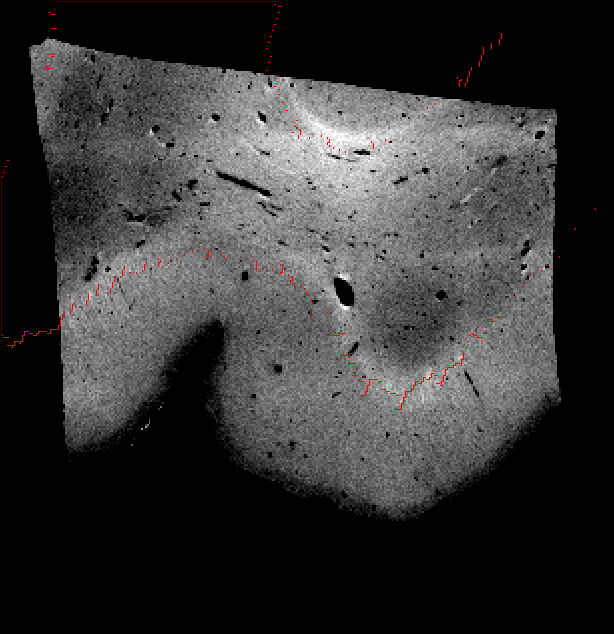
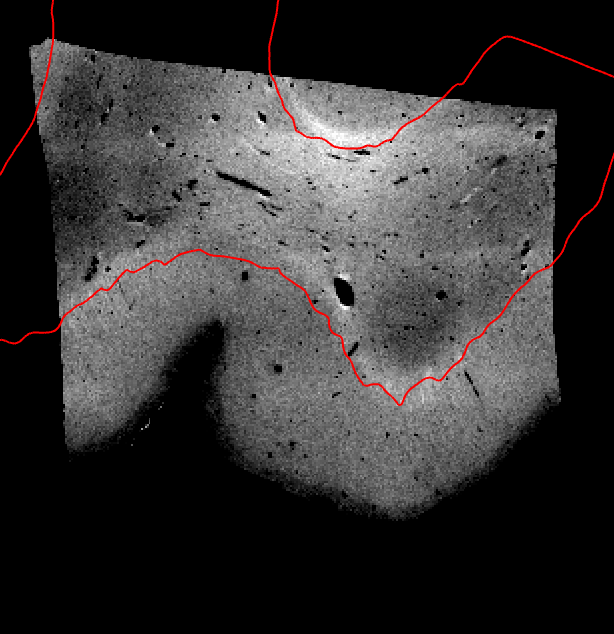
I46 figures: en-face line as the boundary surface, tools on OCT plane 300, en-face leads the README
The white-matter line in the OCT planes is now drawn the way the MRI-grid panels draw it, as the boundary surface cut by the
plane, so it reads at the size the README shows it. OCT plane 300 also shows the line through each standard tool. The README
shows the I46 crop in the OCT's own planes, with the MRI-grid panels kept in bench/i46.

diff --git a/bench/i46/figures.py b/bench/i46/figures.py
@@ -15,8 +15,11 @@ strip/       every C3 crop of the 10 deg FLASH on the axial plane: the MRI with 
 enface/      the crop of main/ seen in the OCT's own imaging planes, as the authors show the OCT: three OCT planes
              (ENFACE_PLANES, one near the top of three sections) at 48 um (4 x 4 box average of the masked OCT), and on each
              the MRI crop resampled through the reference and through octreg (<crop>_p<plane>_mri_<tag>.png), the OCT alone
-             (<crop>_p<plane>_oct.png) and the OCT with the white-matter label of the authors resampled through the
-             reference and through octreg, drawn by freeview as a red outline (<crop>_p<plane>_oct_line_<tag>.png)
+             (<crop>_p<plane>_oct.png) and the OCT with the line of main/ placed through the reference and through octreg
+             (<crop>_p<plane>_oct_line_<tag>.png): the white-matter label resampled to a 0.15 mm grid in the OCT frame
+             around the plane and made a surface the same way. On the middle plane also the line through each standard
+             tool of main/ (<crop>_p300_oct_line_<tool>.png), with no line where the tool places no white matter within
+             four label voxels of the plane (listed as no_line in figures.json)
 The planes pass through the MRI voxel centre nearest the centre of the OCT tissue placed by the reference. The OCT is
 box-averaged to the MRI voxel size and resampled by octreg's own resampler, and black means no OCT. The 2-pixel red line is
 the white-matter boundary of the authors' manual MRI layer labels, made a surface by FreeSurfer's mri_mc and mris_smooth -n 3
@@ -120,9 +123,9 @@ def panels(crop, transforms, boundary, centre_world, out_dir, prefix, work, plan
     return sorted(expect)
 
 
-def enface(crop, transforms, wm, out_dir, prefix, work):
-    """enface/ (module docstring): transforms {tag: 4 x 4 OCT world -> MRI world}, wm the white-matter label on the crop grid.
-    -> the panel files"""
+def enface(crop, transforms, wm, out_dir, prefix, work, planes=ENFACE_PLANES, mri=True):
+    """enface/ (module docstring): transforms {tag: 4 x 4 OCT world -> MRI world}, wm the white-matter label on the crop grid,
+    mri whether to make the MRI panels too. -> the panel files"""
     import nibabel as nib
     out_dir.mkdir(parents=True, exist_ok=True)
     work.mkdir(parents=True, exist_ok=True)
@@ -130,10 +133,10 @@ def enface(crop, transforms, wm, out_dir, prefix, work):
     marr = np.asarray(m.dataobj, np.float32)
     o = nib.load(str(OCT))
     gm, k = freeview_window(crop), ENFACE_POOL
-    lut = work / "wm.lut"
-    lut.write_text("0 Unknown 0 0 0 0\n1 WhiteMatter 255 0 0 0\n", encoding="utf-8", newline="\n")
-    cmd, expect = [], {}
-    for plane in ENFACE_PLANES:
+    s = float(min(m.header.get_zooms()[:3]))                       # the label grid: the MRI voxel size, axes of the OCT
+    D = o.affine[:3, :3] / np.linalg.norm(o.affine[:3, :3], axis=0)
+    cmd, expect, surfs = [], {}, []
+    for plane in planes:
         a = np.asarray(o.dataobj[:, :, plane], np.float32)
         nx, ny = a.shape[0] // k, a.shape[1] // k
         a = a[:nx * k, :ny * k].reshape(nx, k, ny, k).mean((1, 3))[:, :, None]
@@ -151,17 +154,27 @@ def enface(crop, transforms, wm, out_dir, prefix, work):
         size = (wh[0] * 2, wh[1] * 2)
         cmd += ["-v {}:grayscale={!r},{!r}".format(host_path(f_oct), *go), *lines, ss(f"{prefix}_p{plane}_oct.png")]
         expect[out_dir / f"{prefix}_p{plane}_oct.png"] = size
+        n = (int(np.ceil((nx * k * float(o.header.get_zooms()[0]) + 4) / s)),    # 2 mm beyond the plane on each side
+             int(np.ceil((ny * k * float(o.header.get_zooms()[1]) + 4) / s)), 9)  # and 4 voxels above and below it
+        A3 = np.eye(4)
+        A3[:3, :3] = D * s
+        A3[:3, 3] = (A @ np.r_[(nx - 1) / 2, (ny - 1) / 2, 0, 1])[:3] - A3[:3, :3] @ ((np.array(n) - 1) / 2)
         for tag, T in transforms.items():
             f_wm = work / f"wm_{tag}_p{plane}.nii.gz"
             f_mri = work / f"mri_{tag}_p{plane}.nii.gz"
-            io.save_nifti(G.resample_to(wm.astype(np.uint8), m.affine, a.shape, A, np.asarray(T, float), order=0).astype(np.uint8),
-                          A, f_wm)
+            lab = G.resample_to(wm.astype(np.uint8), m.affine, n, A3, np.asarray(T, float), order=0).astype(np.uint8)
+            io.save_nifti(lab, A3, f_wm)
             io.save_nifti(G.resample_to(marr, m.affine, a.shape, A, np.asarray(T, float)), A, f_mri)
-            cmd += [f"-v {host_path(f_wm)}:colormap=lut:lut={host_path(lut)}:outline=1",
-                    ss(f"{prefix}_p{plane}_oct_line_{tag}.png"), "-unload volume"]
+            if lab.any():
+                surfs.append(f_wm.name.removesuffix(".nii.gz"))
+                cmd += [f"-f {host_path(work / (surfs[-1] + '.surf'))}:edgecolor=red:edgethickness=2",
+                        ss(f"{prefix}_p{plane}_oct_line_{tag}.png"), "-unload surface"]
+            else:
+                INFO[f"{out_dir.name}/{prefix}_p{plane}"].setdefault("no_line", []).append(tag)
+                cmd.append(ss(f"{prefix}_p{plane}_oct_line_{tag}.png"))
             expect[out_dir / f"{prefix}_p{plane}_oct_line_{tag}.png"] = size
         cmd.append("-unload volume")
-        for tag in transforms:
+        for tag in transforms if mri else ():
             cmd += ["-v {}:grayscale={!r},{!r}".format(host_path(work / f"mri_{tag}_p{plane}.nii.gz"), *gm), *lines,
                     ss(f"{prefix}_p{plane}_mri_{tag}.png"), "-unload volume"]
             expect[out_dir / f"{prefix}_p{plane}_mri_{tag}.png"] = size
@@ -169,6 +182,8 @@ def enface(crop, transforms, wm, out_dir, prefix, work):
     sh = ["#!/bin/bash", "export FREESURFER_HOME=${FREESURFER_HOME:-/usr/local/freesurfer/8.2.0}",
           "export FS_LICENSE=${FS_LICENSE:-$HOME/freesurfer/license.txt}",
           "source $FREESURFER_HOME/SetUpFreeSurfer.sh >/dev/null 2>&1", "set -e", f"cd {host_path(work)}",
+          *(f"mri_mc {f}.nii.gz 1 {f}_raw.surf > mri_mc_{f}.log 2>&1 && "
+            f"mris_smooth -n 3 -nw {f}_raw.surf {f}.surf > mris_smooth_{f}.log 2>&1" for f in surfs),
           "freeview -cmd enface.cmd > freeview.log 2>&1"]
     (work / "enface.sh").write_text("\n".join(sh) + "\n", encoding="utf-8", newline="\n")
     for f in expect:
@@ -224,6 +239,9 @@ def main():
     if "enface" in stages:
         files += enface(crop_file(crop), {"reference": reference(), **dict(list(octreg(crop).items())[:1])}, wm(crop),
                         a.out / "enface", crop, WORK / "figures" / "enface" / crop)
+        files += enface(crop_file(crop), {k: v for k, v in T.items() if k != "reference" and not k.startswith("octreg")},
+                        wm(crop), a.out / "enface", crop, WORK / "figures" / "enface" / crop / "tools", planes=(300,),
+                        mri=False)
     conds = [(im, "C3", "") for im in FLIPS] + [(PRIMARY, c, "") for c in CONDITIONS if c != "C3"]
     conds.append((PRIMARY, "C3", "_nomask"))
     for image, cond, suffix in conds if "conditions" in stages else []:

diff --git a/README.md b/README.md
@@ -292,36 +292,33 @@ the tissue. There it leaves out about half of the tissue (50 % of the measured O
 beyond 1 mm from R in 9 of the 10 runs (median 2.52 mm). §5 brings all ten within 1 mm. Nor is §6 tested: it found no confident
 interior match and at most three boundary points on any crop, so it refused its field in every run.
 
-| MRI | MRI with the line | OCT, reference | OCT, octreg |
-|---|---|---|---|
-| <img src="docs/figures/i46/main/flip1_C3_k0_mri_coronal.png" width="175" alt="MRI"> | <img src="docs/figures/i46/main/flip1_C3_k0_mri_line_coronal.png" width="175" alt="MRI with the white-matter boundary"> | <img src="docs/figures/i46/main/flip1_C3_k0_reference_coronal.png" width="175" alt="OCT through the reference"> | <img src="docs/figures/i46/main/flip1_C3_k0_octreg_coronal.png" width="175" alt="OCT through octreg"> |
-| **NiftyReg reg_aladin** | **greedy** | **elastix** | **ANTs** |
-| <img src="docs/figures/i46/main/flip1_C3_k0_reg_aladin_coronal.png" width="175" alt="OCT through reg_aladin"> | <img src="docs/figures/i46/main/flip1_C3_k0_greedy_coronal.png" width="175" alt="OCT through greedy"> | no transform (tool error) | <img src="docs/figures/i46/main/flip1_C3_k0_ants_coronal.png" width="175" alt="OCT through ANTs"> |
-| **mri_robust_register** | **mri_coreg** | **FLIRT** | **SynthMorph** |
-| <img src="docs/figures/i46/main/flip1_C3_k0_mri_robust_register_coronal.png" width="175" alt="OCT through mri_robust_register"> | <img src="docs/figures/i46/main/flip1_C3_k0_mri_coreg_coronal.png" width="175" alt="OCT through mri_coreg"> | <img src="docs/figures/i46/main/flip1_C3_k0_flirt_coronal.png" width="175" alt="OCT through FLIRT"> | <img src="docs/figures/i46/main/flip1_C3_k0_synthmorph_coronal.png" width="175" alt="OCT through SynthMorph"> |
-| **FLIRT, its search over ±180°** | **ANTs, antsAI start** | **greedy, its search** |  |
-| <img src="docs/figures/i46/main/flip1_C3_k0_flirt_search_coronal.png" width="175" alt="OCT through FLIRT with its search"> | <img src="docs/figures/i46/main/flip1_C3_k0_ants_antsai_coronal.png" width="175" alt="OCT through ANTs from antsAI"> | <img src="docs/figures/i46/main/flip1_C3_k0_greedy_search_coronal.png" width="175" alt="OCT through greedy with its search"> |  |
-
-The coronal plane through the centre of the OCT tissue placed by R, on the crop with the median distance under octreg (10°
-FLASH, 3 mm margin, k = 0), in freeview at two screen pixels per MRI voxel of 0.15 mm (20.0 × 20.6 mm). The OCT is shown on the
-MRI grid through each transform, black where there is no OCT. The red line is the white-matter boundary of the authors' manual
-MRI labels. The grey levels are linear, at freeview's default window of the crop (22.1 to 44.4) and of the masked OCT every
-method received (8.2 to 191, [docs/figures/i46/figures.json](docs/figures/i46/figures.json)). The bands across the OCT are its
-500 µm sections: in each, the OCT intensity falls with the imaging depth. elastix ended without a transform on this crop.
-[bench/i46](bench/i46/README.md) shows the three planes, the median crop of every condition, and all ten crops of this
-condition.
-
 | OCT plane | OCT | OCT with the line through R | OCT with the line through octreg | MRI through R | MRI through octreg |
 |---|---|---|---|---|---|
 | 102 | <img src="docs/figures/i46/enface/flip1_C3_k0_p102_oct.png" width="150" alt="OCT, plane 102"> | <img src="docs/figures/i46/enface/flip1_C3_k0_p102_oct_line_reference.png" width="150" alt="OCT with the line through R, plane 102"> | <img src="docs/figures/i46/enface/flip1_C3_k0_p102_oct_line_octreg.png" width="150" alt="OCT with the line through octreg, plane 102"> | <img src="docs/figures/i46/enface/flip1_C3_k0_p102_mri_reference.png" width="150" alt="MRI through R, plane 102"> | <img src="docs/figures/i46/enface/flip1_C3_k0_p102_mri_octreg.png" width="150" alt="MRI through octreg, plane 102"> |
 | 300 | <img src="docs/figures/i46/enface/flip1_C3_k0_p300_oct.png" width="150" alt="OCT, plane 300"> | <img src="docs/figures/i46/enface/flip1_C3_k0_p300_oct_line_reference.png" width="150" alt="OCT with the line through R, plane 300"> | <img src="docs/figures/i46/enface/flip1_C3_k0_p300_oct_line_octreg.png" width="150" alt="OCT with the line through octreg, plane 300"> | <img src="docs/figures/i46/enface/flip1_C3_k0_p300_mri_reference.png" width="150" alt="MRI through R, plane 300"> | <img src="docs/figures/i46/enface/flip1_C3_k0_p300_mri_octreg.png" width="150" alt="MRI through octreg, plane 300"> |
 | 498 | <img src="docs/figures/i46/enface/flip1_C3_k0_p498_oct.png" width="150" alt="OCT, plane 498"> | <img src="docs/figures/i46/enface/flip1_C3_k0_p498_oct_line_reference.png" width="150" alt="OCT with the line through R, plane 498"> | <img src="docs/figures/i46/enface/flip1_C3_k0_p498_oct_line_octreg.png" width="150" alt="OCT with the line through octreg, plane 498"> | <img src="docs/figures/i46/enface/flip1_C3_k0_p498_mri_reference.png" width="150" alt="MRI through R, plane 498"> | <img src="docs/figures/i46/enface/flip1_C3_k0_p498_mri_octreg.png" width="150" alt="MRI through octreg, plane 498"> |
 
-The same crop in three planes of the OCT itself, the way Costantini et al. show their OCT: OCT planes 102, 300 and 498, each
-three planes below the top of its section, 14.7 × 15.2 mm at 48 µm (a 4 × 4 average of the 12 µm OCT). From left: the OCT, the
-OCT with the white-matter label of the authors' MRI labels resampled through R and through octreg as a red outline, and the MRI
-crop resampled through R and through octreg. The grey levels are linear, at freeview's default window of each OCT plane and of
-the crop ([docs/figures/i46/figures.json](docs/figures/i46/figures.json)).
+The crop with the median distance under octreg (10° FLASH, 3 mm margin, k = 0) in three planes of the OCT itself, the way
+Costantini et al. show their OCT: OCT planes 102, 300 and 498, each three planes below the top of its section, 14.7 × 15.2 mm
+at 48 µm (a 4 × 4 average of the 12 µm OCT). From left: the OCT, the OCT with the white-matter boundary of the authors' manual
+MRI labels placed through R and through octreg (red), and the MRI crop resampled through R and through octreg. Outside the OCT
+tissue the line continues through the MRI, and where the white matter reaches the edge of the crop it runs along that edge.
+The grey levels are linear, at freeview's default window of each OCT plane and of the crop
+([docs/figures/i46/figures.json](docs/figures/i46/figures.json)).
+
+| R | octreg | NiftyReg reg_aladin | greedy | ANTs |
+|---|---|---|---|---|
+| <img src="docs/figures/i46/enface/flip1_C3_k0_p300_oct_line_reference.png" width="120" alt="OCT plane 300 with the line through R"> | <img src="docs/figures/i46/enface/flip1_C3_k0_p300_oct_line_octreg.png" width="120" alt="OCT plane 300 with the line through octreg"> | <img src="docs/figures/i46/enface/flip1_C3_k0_p300_oct_line_reg_aladin.png" width="120" alt="OCT plane 300 with the line through NiftyReg reg_aladin"> | <img src="docs/figures/i46/enface/flip1_C3_k0_p300_oct_line_greedy.png" width="120" alt="OCT plane 300 with the line through greedy"> | <img src="docs/figures/i46/enface/flip1_C3_k0_p300_oct_line_ants.png" width="120" alt="OCT plane 300 with the line through ANTs"> |
+| **mri_robust_register** | **mri_coreg** | **FLIRT** | **SynthMorph** | **elastix** |
+| <img src="docs/figures/i46/enface/flip1_C3_k0_p300_oct_line_mri_robust_register.png" width="120" alt="OCT plane 300 with the line through mri_robust_register"> | <img src="docs/figures/i46/enface/flip1_C3_k0_p300_oct_line_mri_coreg.png" width="120" alt="OCT plane 300 with the line through mri_coreg"> | <img src="docs/figures/i46/enface/flip1_C3_k0_p300_oct_line_flirt.png" width="120" alt="OCT plane 300 with the line through FLIRT"> | <img src="docs/figures/i46/enface/flip1_C3_k0_p300_oct_line_synthmorph.png" width="120" alt="OCT plane 300 with the line through SynthMorph"> | no transform (tool error) |
+| **FLIRT, its search over ±180°** | **ANTs, antsAI start** | **greedy, its search** |  |  |
+| <img src="docs/figures/i46/enface/flip1_C3_k0_p300_oct_line_flirt_search.png" width="120" alt="OCT plane 300 with the line through FLIRT, its search over ±180°"> | <img src="docs/figures/i46/enface/flip1_C3_k0_p300_oct_line_ants_antsai.png" width="120" alt="OCT plane 300 with the line through ANTs, antsAI start"> | <img src="docs/figures/i46/enface/flip1_C3_k0_p300_oct_line_greedy_search.png" width="120" alt="OCT plane 300 with the line through greedy, its search"> |  |  |
+
+OCT plane 300 of the same crop with the white-matter boundary placed through R, through octreg and through each standard tool
+at its declared setting and with its own search. FLIRT, SynthMorph and the searches of FLIRT and greedy place no white matter
+within 0.6 mm of this plane, so their panels show no line. elastix ended without a transform on this crop.
+[bench/i46](bench/i46/README.md) shows the crop on the MRI grid in three planes, the median crop of every condition, and all
+ten crops of this condition.
 
 ## Reproducing the benchmark
 

diff --git a/bench/i46/README.md b/bench/i46/README.md
@@ -161,7 +161,8 @@ Every estimate T is compared with R. Both map the OCT world to the MRI world.
   counted as beyond every other.
 - **Pictures:** `figures.py` shows in freeview the C3 crop of the 10° FLASH with the median distance under octreg, on whole
   planes through the tissue centre: the MRI, and the OCT through R, through octreg and through each tool. It also shows the
-  median crop of every condition and every C3 crop of the 10° FLASH. The red line is the white-matter boundary of the authors'
+  median crop of every condition and every C3 crop of the 10° FLASH, and the first crop in three of the OCT's own planes with
+  the line placed through R, through octreg and through each tool. The red line is the white-matter boundary of the authors'
   MRI labels, which comes from no compared method. Black means no OCT.
 
 ## Results
@@ -243,9 +244,22 @@ The same crop in three planes of the OCT itself (`enface/`):
 
 The same crop in three planes of the OCT itself, the way Costantini et al. show their OCT: OCT planes 102, 300 and 498, each
 three planes below the top of its section, 14.7 × 15.2 mm at 48 µm (a 4 × 4 average of the 12 µm OCT). From left: the OCT, the
-OCT with the white-matter label of the authors' MRI labels resampled through R and through octreg as a red outline, and the MRI
-crop resampled through R and through octreg. The grey levels are linear, at freeview's default window of each OCT plane and of
-the crop.
+OCT with the white-matter boundary placed through R and through octreg, and the MRI crop resampled through R and through octreg.
+The line is the boundary above, resampled to a 0.15 mm grid in the OCT frame and cut by the plane. Outside the OCT tissue it
+continues through the MRI, and where the white matter reaches the edge of the crop it runs along that edge. The grey levels are
+linear, at freeview's default window of each OCT plane and of the crop.
+
+OCT plane 300 with the line through R, through octreg and through each standard tool at its declared setting and with its own
+search. FLIRT, SynthMorph and the searches of FLIRT and greedy place no white matter within 0.6 mm of this plane, so their
+panels show no line (`no_line` in figures.json). elastix ended without a transform on this crop.
+
+| R | octreg | NiftyReg reg_aladin | greedy | ANTs |
+|---|---|---|---|---|
+| <img src="../../docs/figures/i46/enface/flip1_C3_k0_p300_oct_line_reference.png" width="110" alt="OCT plane 300 with the line through R"> | <img src="../../docs/figures/i46/enface/flip1_C3_k0_p300_oct_line_octreg.png" width="110" alt="OCT plane 300 with the line through octreg"> | <img src="../../docs/figures/i46/enface/flip1_C3_k0_p300_oct_line_reg_aladin.png" width="110" alt="OCT plane 300 with the line through NiftyReg reg_aladin"> | <img src="../../docs/figures/i46/enface/flip1_C3_k0_p300_oct_line_greedy.png" width="110" alt="OCT plane 300 with the line through greedy"> | <img src="../../docs/figures/i46/enface/flip1_C3_k0_p300_oct_line_ants.png" width="110" alt="OCT plane 300 with the line through ANTs"> |
+| **mri_robust_register** | **mri_coreg** | **FLIRT** | **SynthMorph** | **elastix** |
+| <img src="../../docs/figures/i46/enface/flip1_C3_k0_p300_oct_line_mri_robust_register.png" width="110" alt="OCT plane 300 with the line through mri_robust_register"> | <img src="../../docs/figures/i46/enface/flip1_C3_k0_p300_oct_line_mri_coreg.png" width="110" alt="OCT plane 300 with the line through mri_coreg"> | <img src="../../docs/figures/i46/enface/flip1_C3_k0_p300_oct_line_flirt.png" width="110" alt="OCT plane 300 with the line through FLIRT"> | <img src="../../docs/figures/i46/enface/flip1_C3_k0_p300_oct_line_synthmorph.png" width="110" alt="OCT plane 300 with the line through SynthMorph"> | no transform (tool error) |
+| **FLIRT, its search over ±180°** | **ANTs, antsAI start** | **greedy, its search** |  |  |
+| <img src="../../docs/figures/i46/enface/flip1_C3_k0_p300_oct_line_flirt_search.png" width="110" alt="OCT plane 300 with the line through FLIRT, its search over ±180°"> | <img src="../../docs/figures/i46/enface/flip1_C3_k0_p300_oct_line_ants_antsai.png" width="110" alt="OCT plane 300 with the line through ANTs, antsAI start"> | <img src="../../docs/figures/i46/enface/flip1_C3_k0_p300_oct_line_greedy_search.png" width="110" alt="OCT plane 300 with the line through greedy, its search"> |  |  |
 
 Every crop of the 10° FLASH with a 3 mm margin, axial plane:
 
